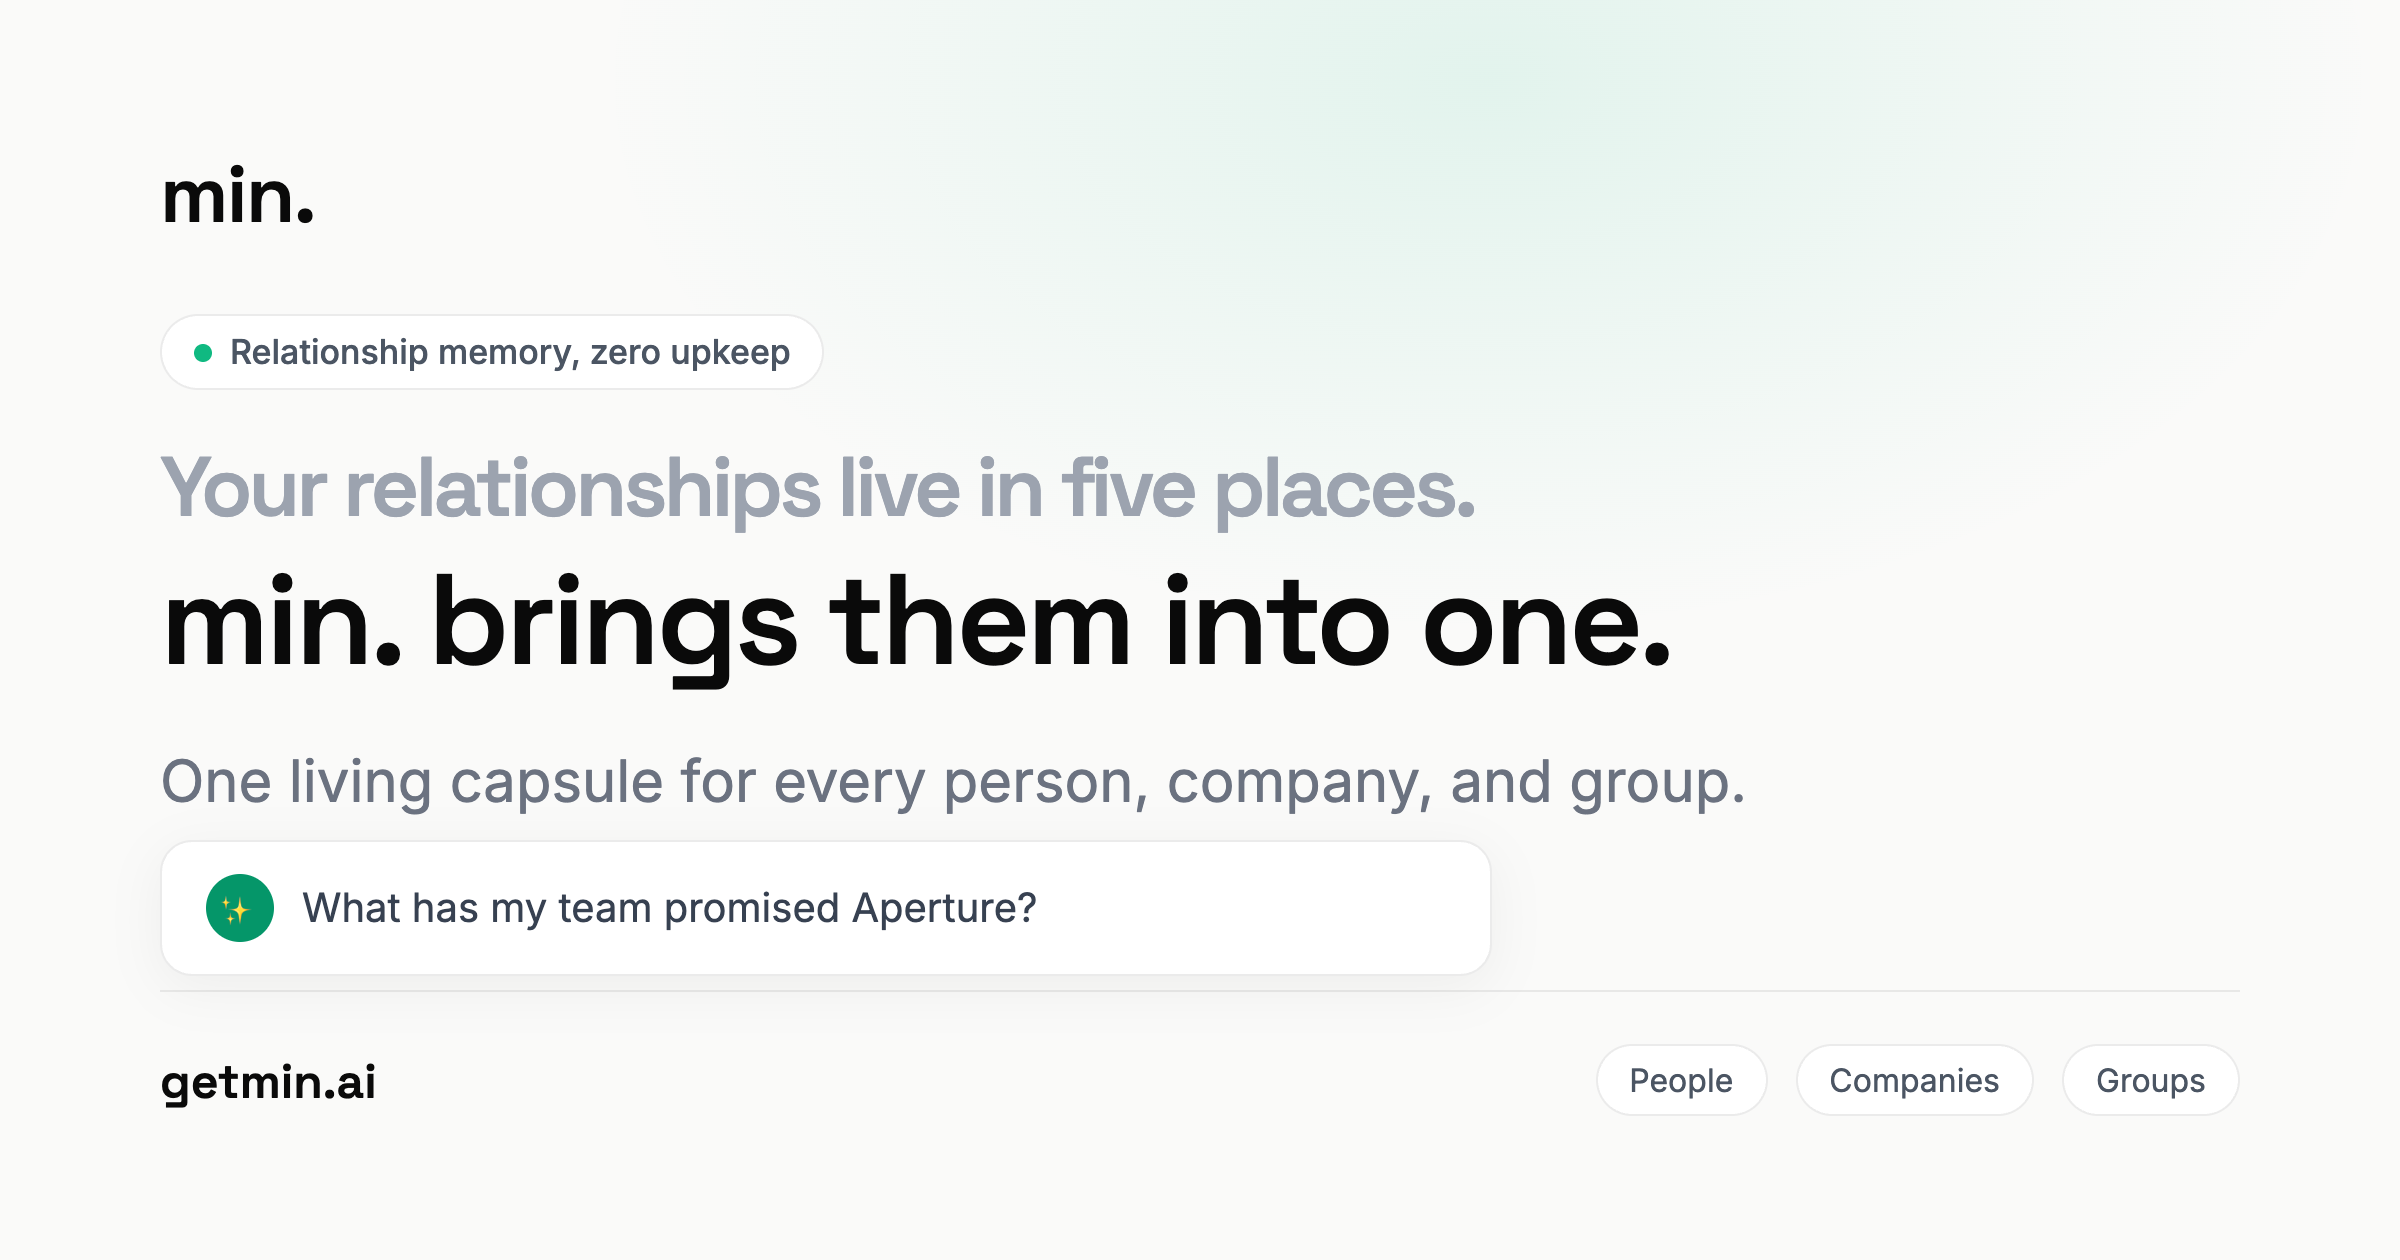
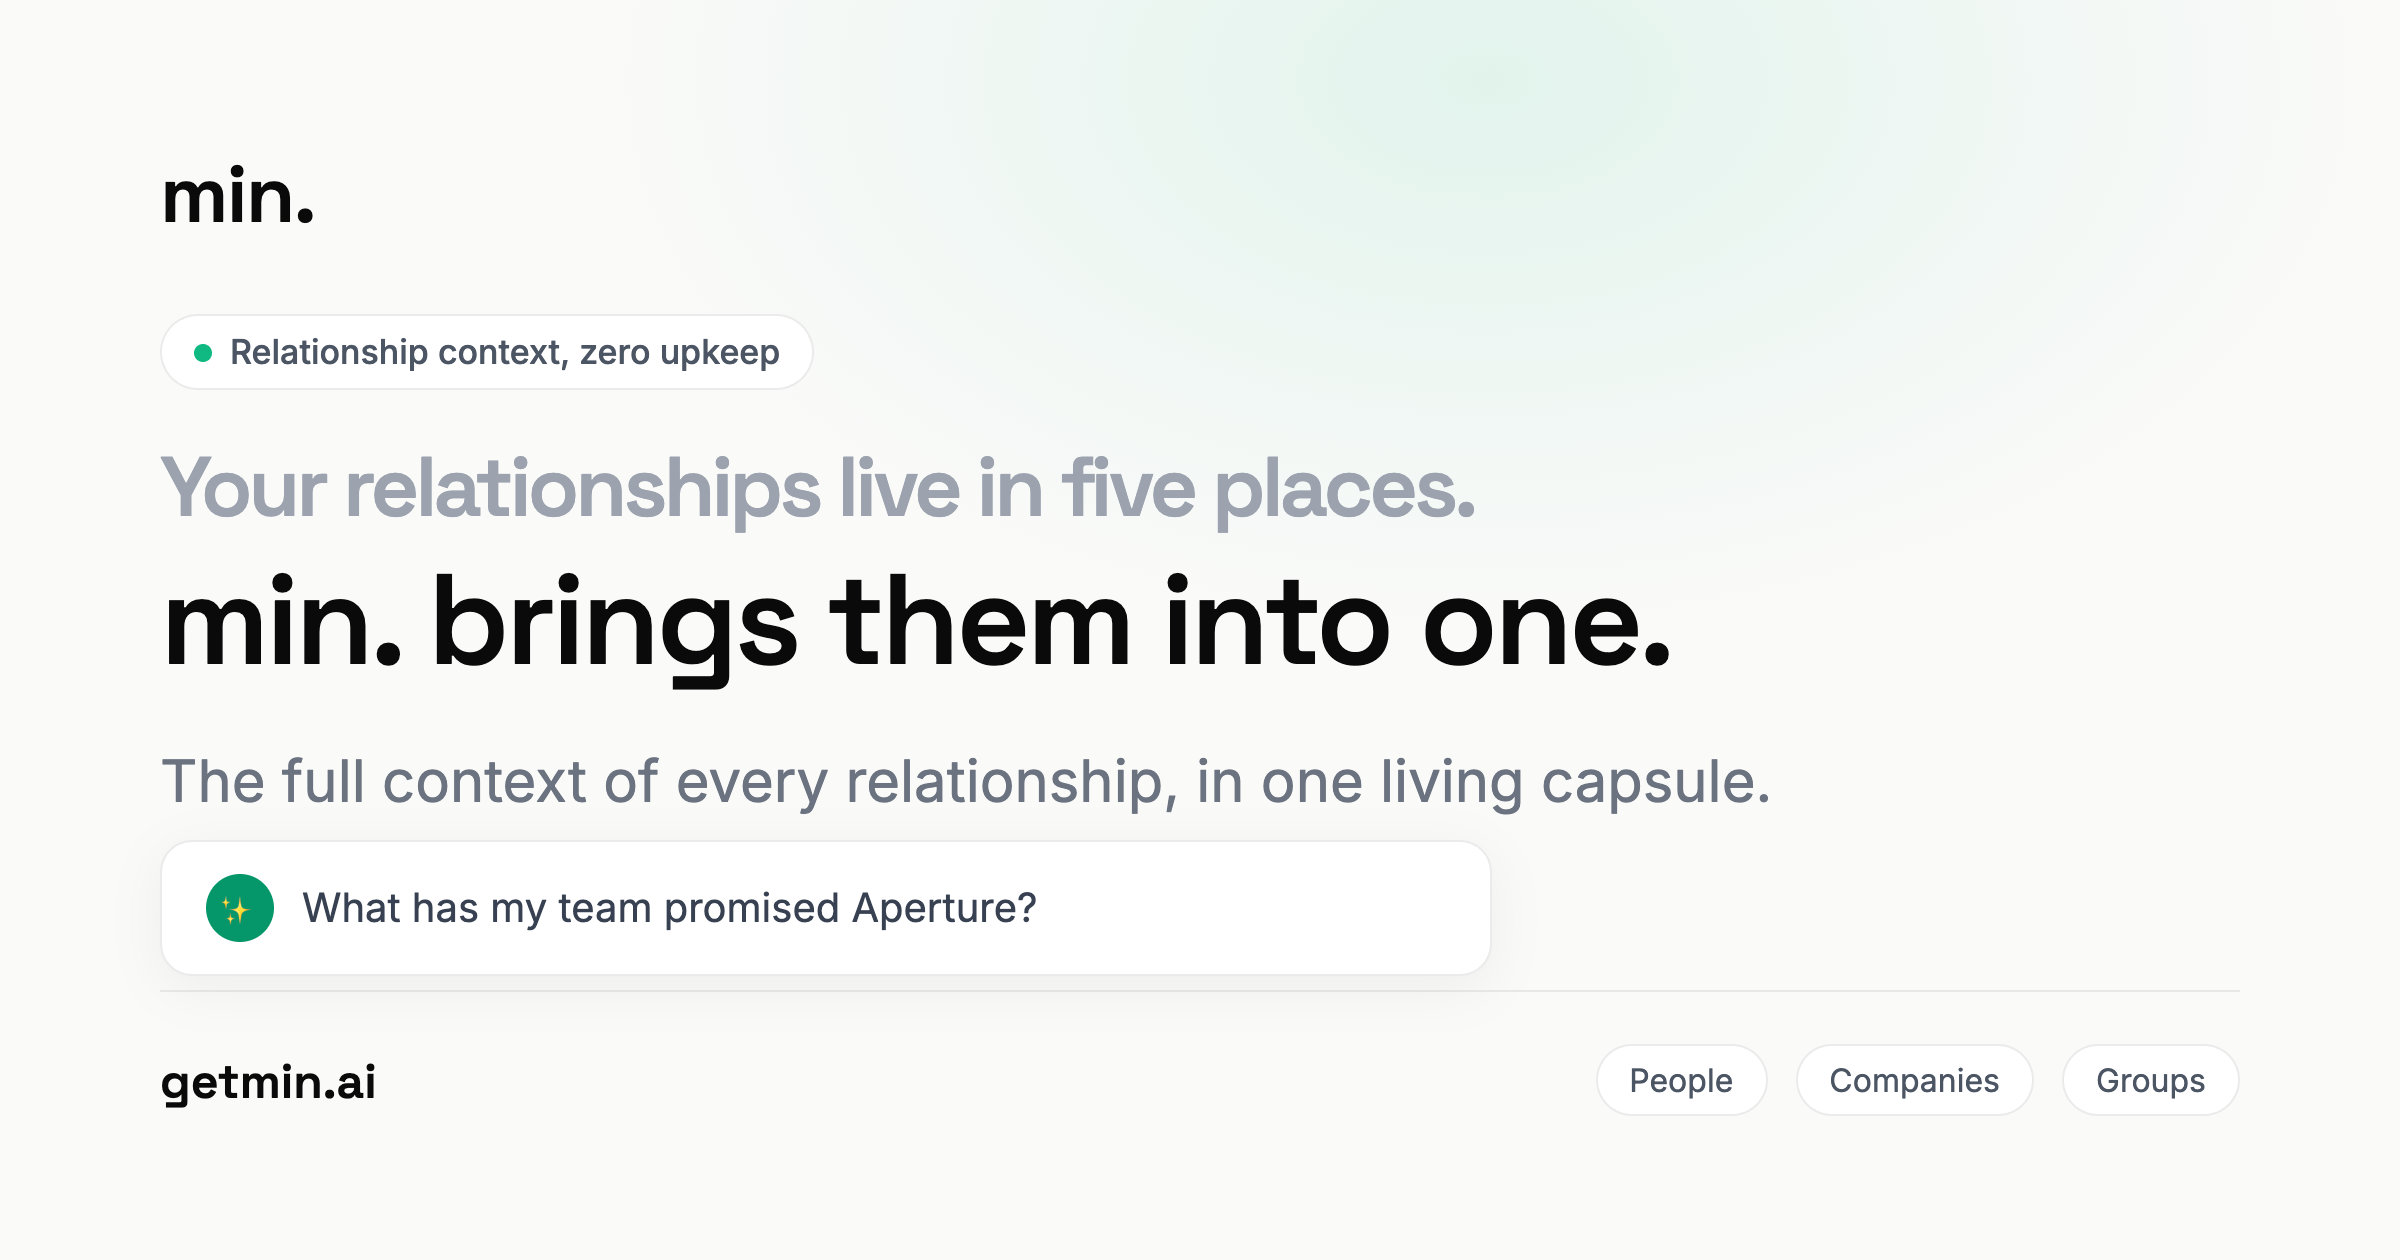
Work "context" into the messaging as the value layer
Context is top of mind for everyone now, and it is what the product
actually delivers, so it joins the vocabulary as the third layer: memory
is the category (min. remembers), the capsule is the artifact, and
CONTEXT is the value, what's inside and what you hand a teammate.

- Hero badge: "Relationship memory, zero upkeep" -> "Relationship
  context, zero upkeep"
- Capsule section: "The relationship's full context in a one page TL;DR"
- How it works step 3: "Send one link and a teammate has full context"
- Share: "A capsule is shareable context. One link..."
- Footer: "...and the context to show up for people the way you always
  meant to"
- Meta descriptions + JSON-LD lead with "the full context of every
  person, company, and group"; OG image badge and sub re-rendered to
  match ("The full context of every relationship, in one living capsule")

Integrations already carried "Every relationship, context at your
fingertips", unchanged. Six uses across the page, value statements only;
category and artifact terms untouched.

Changed region(s): [[0.0625, 0.5881, 0.75, 0.65], [0.1875, 0.2476, 0.3438, 0.3095]]

diff --git a/index.html b/index.html
@@ -7,7 +7,7 @@
     <title>min. | A living capsule for every relationship</title>
     <!-- Primary Meta Tags -->
     <meta name="title" content="min. | A living capsule for every relationship" />
-    <meta name="description" content="One customer sits in your inbox, your calendar, your calls, and your teammates' heads. min. keeps one living capsule for every person, company, and group you work with, so you never piece the story together again." />
+    <meta name="description" content="One customer sits in your inbox, your calendar, your calls, and your teammates' heads. min. keeps the full context of every person, company, and group you work with in one living capsule, so you never piece the story together again." />
     <meta name="keywords" content="relationship assistant, relationship memory, relationship capsule, CRM alternative, calendar and email assistant, meeting prep, follow up reminders, relationship management" />
     <meta name="author" content="min." />
 
@@ -15,7 +15,7 @@
     <meta property="og:type" content="website" />
     <meta property="og:url" content="https://getmin.ai/" />
     <meta property="og:title" content="min. | A living capsule for every relationship" />
-    <meta property="og:description" content="One customer sits in your inbox, your calendar, your calls, and your teammates' heads. min. keeps one living capsule for every person, company, and group you work with, so you never piece the story together again." />
+    <meta property="og:description" content="One customer sits in your inbox, your calendar, your calls, and your teammates' heads. min. keeps the full context of every person, company, and group you work with in one living capsule, so you never piece the story together again." />
     <meta property="og:image" content="https://getmin.ai/og-cover.png" />
     <meta property="og:image:width" content="2400" />
     <meta property="og:image:height" content="1260" />
@@ -27,7 +27,7 @@
     <meta name="twitter:card" content="summary_large_image" />
     <meta name="twitter:url" content="https://getmin.ai/" />
     <meta name="twitter:title" content="min. | A living capsule for every relationship" />
-    <meta name="twitter:description" content="One customer sits in your inbox, your calendar, your calls, and your teammates' heads. min. keeps one living capsule for every person, company, and group you work with, so you never piece the story together again." />
+    <meta name="twitter:description" content="One customer sits in your inbox, your calendar, your calls, and your teammates' heads. min. keeps the full context of every person, company, and group you work with in one living capsule, so you never piece the story together again." />
     <meta name="twitter:image" content="https://getmin.ai/og-cover.png" />
     <meta name="twitter:image:alt" content="min. — a living capsule for every relationship" />
     <meta name="twitter:creator" content="@getminai" />
@@ -52,7 +52,7 @@
       "@context": "https://schema.org",
       "@type": "SoftwareApplication",
       "name": "min.",
-      "description": "One customer sits in your inbox, your calendar, your calls, and your teammates' heads. min. keeps one living capsule for every person, company, and group you work with, so you never piece the story together again.",
+      "description": "One customer sits in your inbox, your calendar, your calls, and your teammates' heads. min. keeps the full context of every person, company, and group you work with in one living capsule, so you never piece the story together again.",
       "applicationCategory": "BusinessApplication",
       "applicationSubCategory": "Relationship Management",
       "operatingSystem": "Web",

diff --git a/public/og-image.html b/public/og-image.html
@@ -147,13 +147,13 @@
         <div class="content">
             <div>
                 <div class="logo">min.</div>
-                <div class="badge"><span class="badge-dot"></span>Relationship memory, zero upkeep</div>
+                <div class="badge"><span class="badge-dot"></span>Relationship context, zero upkeep</div>
                 <div class="headline">
                     <span class="muted">Your relationships live in five places.</span>
                     min. brings them into one.
                 </div>
                 <div class="subheadline">
-                    One living capsule for every person, company, and group.
+                    The full context of every relationship, in one living capsule.
                 </div>
             </div>
 

diff --git a/src/pages/Index.tsx b/src/pages/Index.tsx
@@ -17,7 +17,7 @@ const Index = () => {
         <title>min. | A living capsule for every relationship</title>
         <meta
           name="description"
-          content="One customer sits in your inbox, your calendar, your calls, and your teammates' heads. min. keeps one living capsule for every person, company, and group you work with, so you never piece the story together again."
+          content="One customer sits in your inbox, your calendar, your calls, and your teammates' heads. min. keeps the full context of every person, company, and group you work with in one living capsule, so you never piece the story together again."
         />
         <link rel="canonical" href="https://getmin.ai" />
       </Helmet>

diff --git a/src/components/landing/Share.tsx b/src/components/landing/Share.tsx
@@ -70,9 +70,9 @@ export default function Share() {
               <br className="hidden sm:block" /> like a doc.
             </h2>
             <p className="mt-5 max-w-md text-[17px] leading-relaxed text-gray-500">
-              One link, and a teammate or partner has the whole relationship,
-              always current. No internal prep call, no forwarded threads, no
-              write up from memory.
+              A capsule is shareable context. One link, and a teammate or
+              partner has the whole relationship, always current. No internal
+              prep call, no forwarded threads, no write up from memory.
             </p>
           </FadeIn>
 

diff --git a/src/components/landing/CapsuleUpClose.tsx b/src/components/landing/CapsuleUpClose.tsx
@@ -16,8 +16,8 @@ export default function CapsuleUpClose() {
               One relationship, one capsule.
             </h2>
             <p className="mx-auto mt-4 max-w-xl text-[17px] leading-relaxed text-gray-500">
-              A one page TL;DR of the whole relationship, with one click deep
-              dives into every call and email. Then ask it anything.
+              The relationship's full context in a one page TL;DR, with one
+              click deep dives into every call and email. Then ask it anything.
             </p>
           </div>
         </FadeIn>

diff --git a/src/components/MinFooter.tsx b/src/components/MinFooter.tsx
@@ -43,7 +43,7 @@ export default function MinFooter() {
             <p className="text-gray-500 text-sm leading-relaxed max-w-xs">
               Relationship intelligence with perfect recall. min. holds one
               living memory of every person, company, and group you work with,
-              and the insight to show up for people the way you always meant to.
+              and the context to show up for people the way you always meant to.
             </p>
           </div>
 

diff --git a/src/components/landing/LandingHero.tsx b/src/components/landing/LandingHero.tsx
@@ -16,7 +16,7 @@ export default function LandingHero() {
           <FadeIn delay={0.05}>
             <span className="mb-5 inline-flex items-center gap-1.5 rounded-full border border-gray-200 bg-white/70 px-3 py-1 text-[12.5px] font-medium text-gray-600 backdrop-blur">
               <span className="h-1.5 w-1.5 rounded-full bg-emerald-500" />
-              Relationship memory, zero upkeep
+              Relationship context, zero upkeep
             </span>
           </FadeIn>
 

diff --git a/src/components/landing/HowItWorks.tsx b/src/components/landing/HowItWorks.tsx
@@ -18,7 +18,7 @@ const STEPS = [
     n: "03",
     Icon: Share2,
     title: "Share.",
-    body: "Send one link and a teammate has the whole story. No internal prep call, no forwarded threads, no rewatching recordings.",
+    body: "Send one link and a teammate has full context. No internal prep call, no forwarded threads, no rewatching recordings.",
   },
 ];
 
